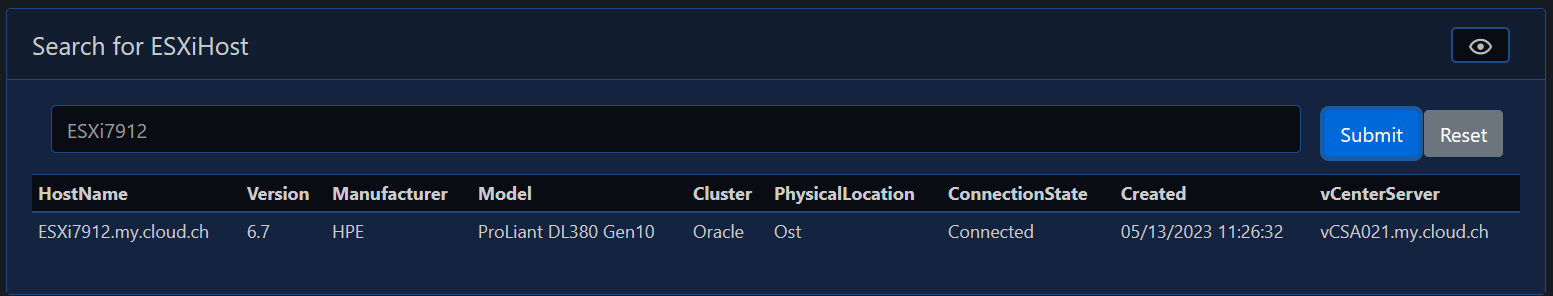
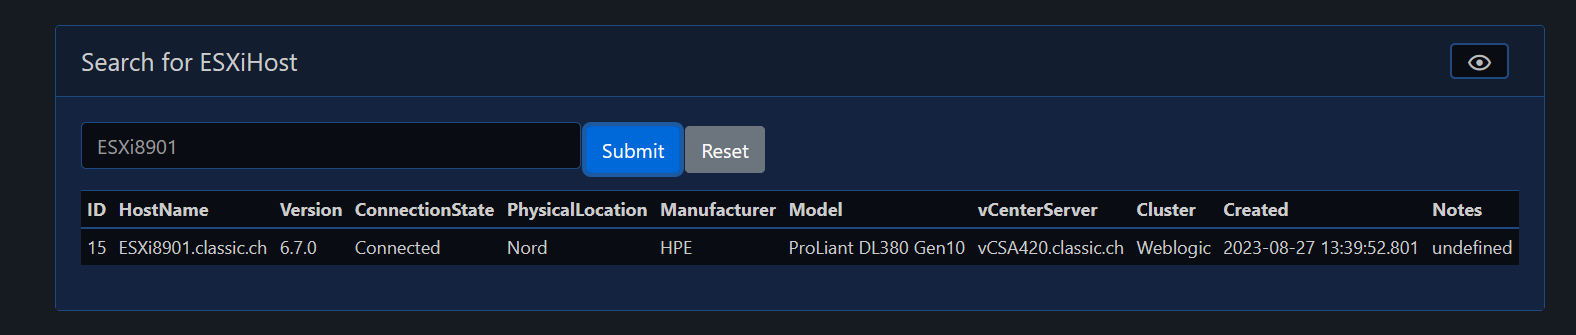
Update to v1.1.3

diff --git a/README.md b/README.md
@@ -26,30 +26,52 @@ The content of the CSV-file will be stored in a SQLite DB in seperated tabels fo
 
 ## PSXi Homepage
 
-This is the Homepage of the PSXi App. It shows you the status of the Modules and the SQLite Database.
+This is the Homepage of the PSXi App. It shows you the status of the Modules and the SQLite Database, Tables and Views.
 
-![PSXiHomePage](./img/PSXiHomePage.png)
+![PSXiHomePage Module Check](./img/PSXiHomePage1.png)
+![PSXiHomePage DB and Table Check](./img/PSXiHomePage2.png)
+![PSXiHomePage View Check](./img/PSXiHomePage3.png)
 
 ## PSXi Summary
 
 In the Summary, you can see the total of vCenter, and the count of each ESXiHost versions.
 
-![PSXiEsxInventory](./img/PSXiOverallSummary.png)
-![PSXiEsxInventory](./img/PSXiSummaryEsxiHosts.png)
+![PSXiOverallSummary](./img/PSXiOverallSummary.png)
+![PSXiSummaryEsxiHosts](./img/PSXiSummaryEsxiHosts.png)
 
 ## PSXi ESXi Inventory
 
-You can search for the ESXiHost in the search box in the pages Summary, Classic-/Cloud ESXi Host Table.
+If you click on the Group Classic and Classic ESXi Host Inventory, the first you can see is the summary of objects in this environment.
 
-![PSXiEsxInventory](./img/PSXiSearchEsxiHosts.png)
+![PSXiClassicSummaryEsxiHosts](./img/PSXiClassicSummaryEsxiHosts.png)
 
-If you click on this page, all ESXi Hosts of the Classic will be grouped by vCenterServer.
+At the next you can search for an ESXiHosts. Enter the name of the ESXiHost in the search box and press submit.
 
+![PSXiSearchEsxiHosts](./img/PSXiSearchEsxiHosts.png)
+
+Here you can view, add, update and remove note of an ESXiHost.
+
+![PSXiEsyiHostsNotes1](img/PSXiEsyiHostsNotes1.png)
+
+To add or update notes, enter the name of the ESXiHost and all Hosts of the ESXiHosts-table will be listet in the Dropdown, choose the one to edit and enter the note and press submit.
+
+![PSXiEsyiHostsNotes2](img/PSXiEsyiHostsNotes2.png)
+
+To delete the notes of an ESXiHost, enter the name of the ESXiHost and all Hosts of the ESXiHosts-table will be listet in the Dropdown, choose the one to remove the notes and press submit.
+
+![PSXiEsyiHostsNotes3](img/PSXiEsyiHostsNotes3.png)
+
+Each ESXiHosts of the Classic will be grouped by their vCenter Server.
+ 
 ![PSXiEsxInventory](./img/PSXiEsxInventory.png)
 
-If you cklick on this page, each vCenter of the Cloud has it own tab where you can find all ESXiHosts.
+Each vCenter of the Cloud has it own tab where you can find all ESXiHosts.
 
-![PSXiEsxInventory](./img/PSXivCenterTabs.png)
+![PSXivCenterTabs](./img/PSXivCenterTabs.png)
+
+If you click at the row of an ESXiHost, all fileds of the selected ESXiHost will be showed as Sticky-note.
+
+![PSXiEsxiHostDetails](img/PSXiEsxiHostDetails.png)
 
 ## Mermaid Diagram
 
